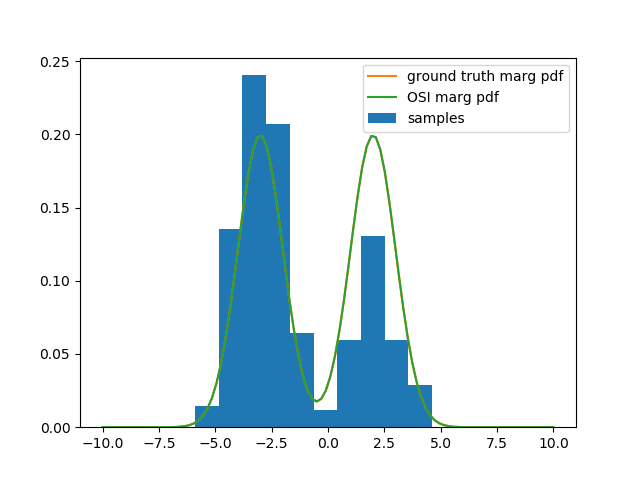
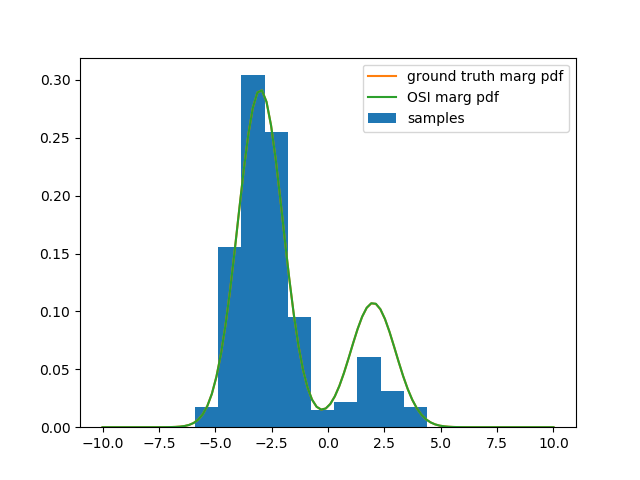
rerun prev, adding a disc MLNPotential on node 0 to increase weight for one of the components; osi still good

diff --git a/osi/hybrid_mln_test_basic.py b/osi/hybrid_mln_test_basic.py
@@ -35,6 +35,8 @@ Nc = 1
 w0 = 0.5
 factors = [F(nb=(rvs[0], rvs[1]),
              potential=MLNPotential(lambda x: (1 - x[0]) * eq_op(x[1], -3) + x[0] * eq_op(x[1], 2), w=w0)),
+           F(nb=(rvs[0],),
+             potential=MLNPotential(lambda x: eq_op(x[0], 0), w=1.0))
            # F(nb=(rvs[1],),
            #   potential=QuadraticPotential(A=-0.5 * np.eye(1), b=np.array([0.]), c=0.)),
            ]
@@ -66,8 +68,8 @@ utils.set_log_potential_funs(g.factors_list)  # OSI assumes factors have callabl
 K = 2
 T = 12
 lr = 0.4
-its = 200
-fix_mix_its = int(its * 0.8)
+its = 300
+fix_mix_its = int(its * 0.5)
 osi = OneShot(g=g, K=K, T=T, seed=seed)  # can be moved outside of all loops if the ground MRF doesn't change
 osi.run(lr=lr, its=its, fix_mix_its=fix_mix_its)
 for i, rv in enumerate(rvs):
